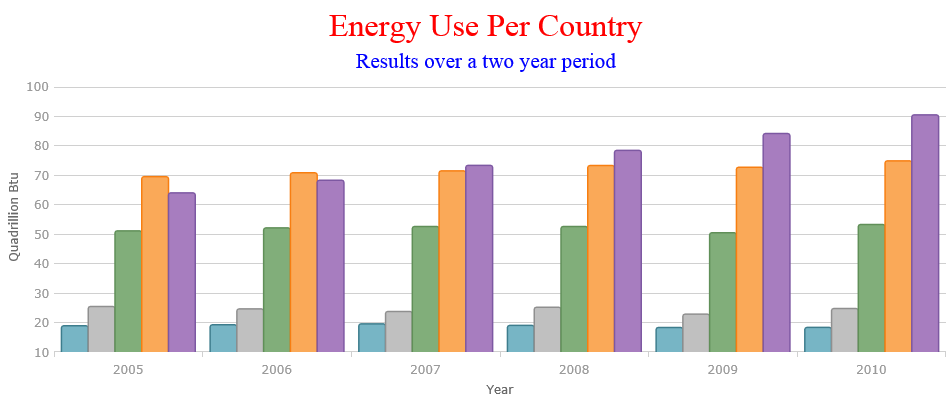
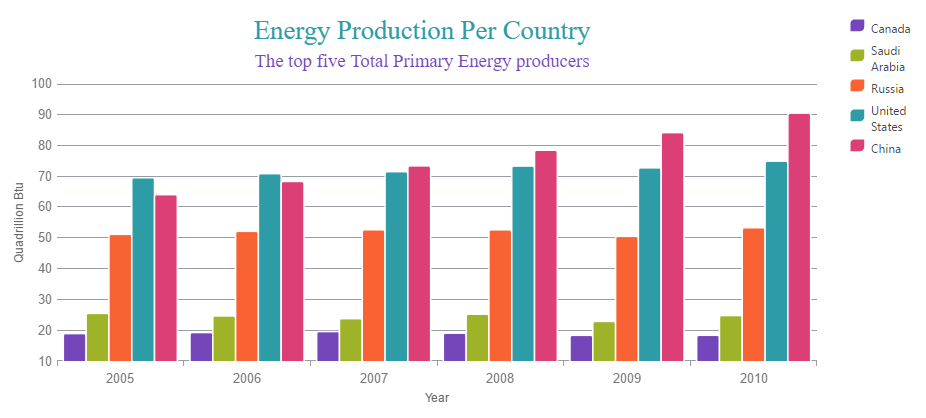
Add chart-title sample to the topic.

diff --git a/topics/02_Controls/igDataChart/04_Configuring/01_igDataChart_Chart_Titles_and_Subtitles.md b/topics/02_Controls/igDataChart/04_Configuring/01_igDataChart_Chart_Titles_and_Subtitles.md
@@ -148,7 +148,10 @@ The following table maps the desired configuration to the property settings that
 
 ###<a id="example"></a> Example
 
-The screenshot below demonstrates how the title and subtitle of a chart look as a result of the following settings:
+The title and subtitle feature of the igChart control allows you to add information to the top section of the chart control.
+When adding a title and/or subtitle to the chart control, the content of the chart is automatically resized to allow for the title and/or subtitle information.
+
+Following are a chart title settings' table and an example that implements this configuration:
 
 <table class="table">
 	<thead>
@@ -160,48 +163,37 @@ The screenshot below demonstrates how the title and subtitle of a chart look as 
 	<tbody>
 		<tr>
 			<td>title</td>
-			<td>“Energy Use Per Country”</td>
+			<td>“Energy Production Per Country”</td>
 		</tr>
 		<tr>
 			<td>titleTextColor</td>
-			<td>“Red”</td>
+			<td>“#2e9ca6”</td>
 		</tr>
 		<tr>
 			<td>titleTextStyle</td>
-			<td>“24pt Verdona”</td>
+			<td>“20pt Verdona”</td>
 		</tr>
 		<tr>
 			<td>subtitle</td>
-			<td>“Results over a two year period”</td>
+			<td>“The top five Total Primary Energy producers”</td>
 		</tr>
 		<tr>
 			<td>subtitleTextColor</td>
-			<td>“Blue”</td>
+			<td>“#7446b9”</td>
 		</tr>
 		<tr>
 			<td>subtitleTextStyle</td>
-			<td>“16pt Verdona”</td>
+			<td>“14pt Verdona”</td>
 		</tr>
 	</tbody>
 </table>
 
-![](images/igDataChart_Chart_Title_02.png)
 
-Following is the code that implements this example:
+<div class="embed-sample">
+   [Chart Title and Subtitle](%%SamplesEmbedUrl%%/data-chart/chart-title)
+   ![](images/igDataChart_Chart_Title_02.png)
+</div>
 
-**In HTML:**
-
-```html
-$("#container").igDataChart({
-	…
-    title: "Energy Use Per Country",
-    titleTextColor: "red",
-    titleTextStyle: "24pt Verdona",
-    subtitle:"Results over a two year period",
-    subtitleTextColor: "blue",
-    subtitleTextStyle: "16pt Verdona",
-});
-```
 
 ##<a id="related-content"></a>Related Content
 
@@ -212,14 +204,6 @@ The following topic provides additional information related to this topic:
 
 
 -	[Adding igDataChart](igDataChart-Adding.html):  This topic demonstrates how to add the `igDataChart` control to a page and bind it to data.
-
-
-
-### <a id="samples"></a>Samples
-
-The following sample provides additional information related to this topic.
-
--	[Chart Title and Subtitle](%%SamplesUrl%%/data-chart/chart-title):  The title and subtitle feature of the `igDataChart` control allows you to add information to the top section of the `igDataChart` control
 
 
 
